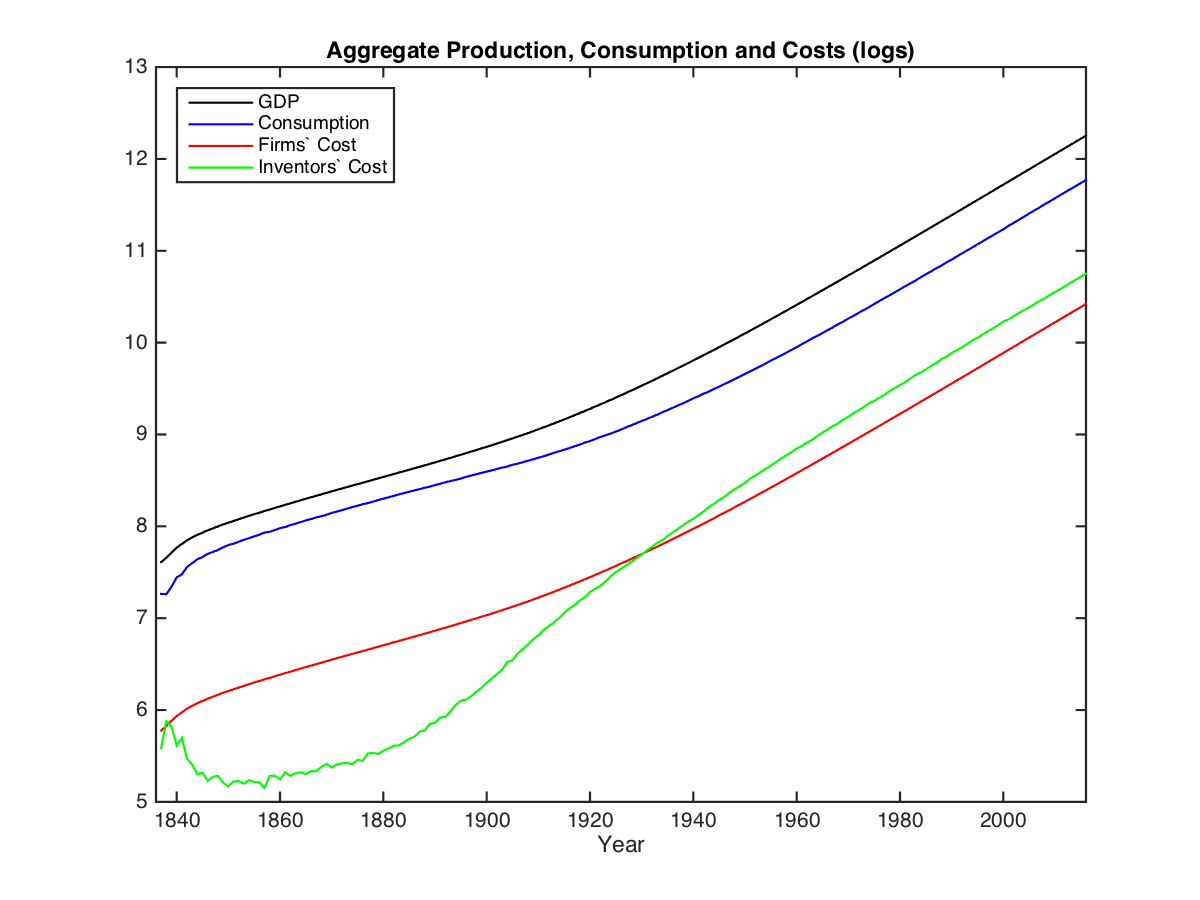
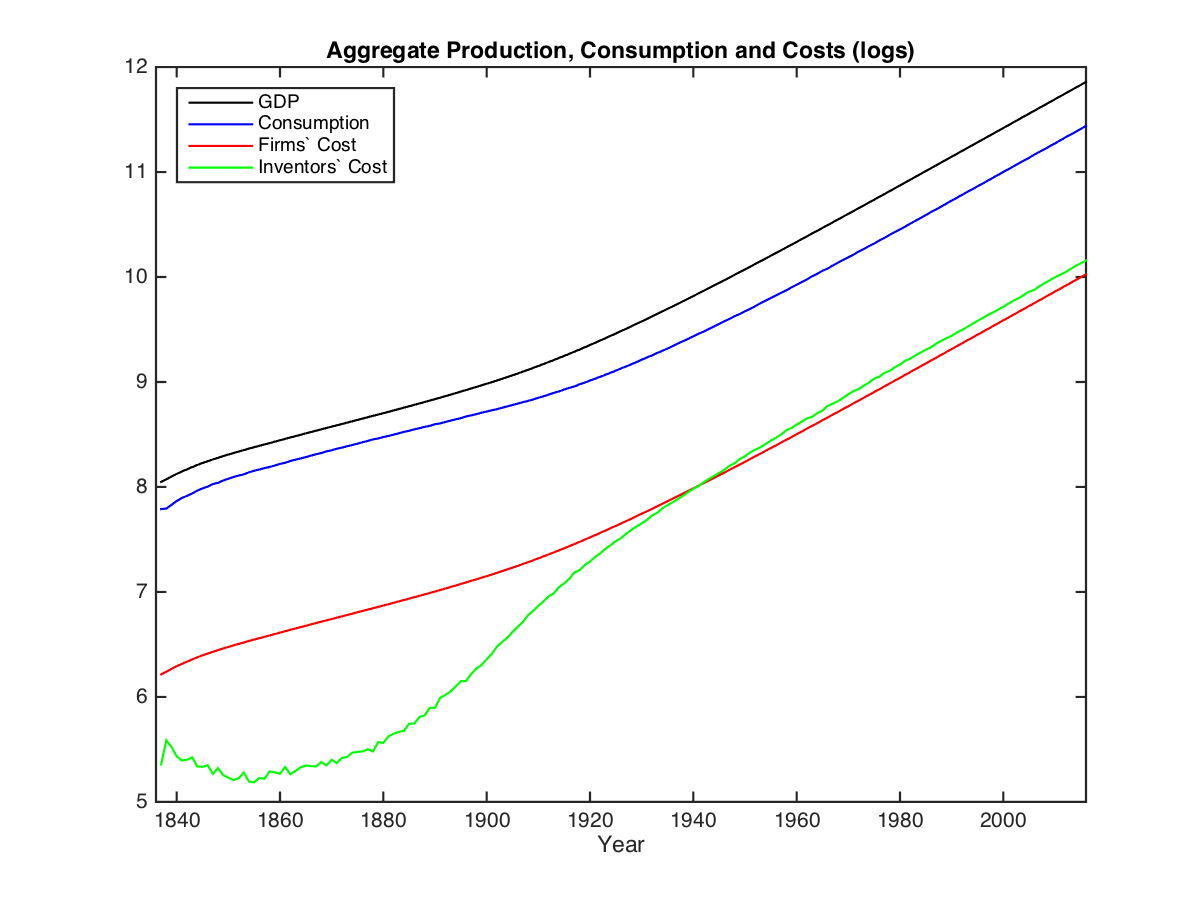
updates to parameters

diff --git a/simulations/simulate_model/tex_files/moments_table.tex b/simulations/simulate_model/tex_files/moments_table.tex
@@ -1,17 +1,17 @@
 \begin{tabular}{|l|l|l|}
 \hline
 &\textbf{Data}&\textbf{Model}\\\hline
-\textbf{new tech 1850}&0.4&0.095132\\\hline
-\textbf{new comb 1850}&0.25&0.27981\\\hline
-\textbf{reuse 1850}&0.35&0.62506\\\hline
-\textbf{new tech 1900}&0.03&0.032952\\\hline
-\textbf{new comb 1900}&0.45&0.40219\\\hline
-\textbf{reuse 1900}&0.52&0.56486\\\hline
-\textbf{new tech 1950}&0.02&0.02515\\\hline
-\textbf{new comb 1950}&0.75&0.7685\\\hline
-\textbf{reuse 1950}&0.33&0.20635\\\hline
-\textbf{new tech 2000}&0.01&0.026435\\\hline
-\textbf{new comb 2000}&0.8&0.84388\\\hline
-\textbf{reuse 2000}&0.19&0.12969\\\hline
-\textbf{reuse peak}&0.55&0.6573\\\hline
+\textbf{new tech 1850}&0.4&0.10921\\\hline
+\textbf{new comb 1850}&0.25&0.25847\\\hline
+\textbf{reuse 1850}&0.35&0.63232\\\hline
+\textbf{new tech 1900}&0.03&0.036378\\\hline
+\textbf{new comb 1900}&0.45&0.43172\\\hline
+\textbf{reuse 1900}&0.52&0.5319\\\hline
+\textbf{new tech 1950}&0.02&0.029526\\\hline
+\textbf{new comb 1950}&0.75&0.76079\\\hline
+\textbf{reuse 1950}&0.33&0.20968\\\hline
+\textbf{new tech 2000}&0.01&0.0297\\\hline
+\textbf{new comb 2000}&0.8&0.80735\\\hline
+\textbf{reuse 2000}&0.19&0.16295\\\hline
+\textbf{reuse peak}&0.55&0.65927\\\hline
 \end{tabular}

diff --git a/simulations/simulate_model/simul4.m b/simulations/simulate_model/simul4.m
@@ -8,13 +8,13 @@ feature accel on
 cd('/Users/alexandresollaci/Documents/UChicago/RA/Combinatorial growth/combinatorial_growth/simulations/simulate_model/')
 rng(10)
 etaH = 0.15; % NT step size
-etaM = 0.075; % NC step size
+etaM = 0.1; % NC step size
 etaL = 0; % Refinement step size
 ttau = 500; % shape parameter for ideas distribution
-phi = 1.05;
-llambda = 1.5; % alpha (cost) has weibull distribution with scale parameter lambda ...
+phi = 1.075;
+llambda = 2; % alpha (cost) has weibull distribution with scale parameter lambda ...
 kkappa = 2;  % and shape parameter kappa
-xxi = 175;   % 1/xi is the fraction of feasible combinations
+xxi = 5;   % 1/xi is the fraction of feasible combinations
 
 zeta = 0.01; % probability technology line shuts down
 
@@ -42,7 +42,7 @@ Mmat(1:M0,5) = ones(M0,1); % technologies are born hot
 
 Tmax = 180;
 
-nu = 2; % chosen so that nrof firms makes avg growth rate is approximately 2%
+nu = 3.1; % chosen so that nrof firms makes avg growth rate is approximately 2%
 nrofinv = exp(6); % number of inventors, chosen to match initial number of patents
 nroffirms = round(nu*nrofinv); 
 g1 = 0.066; % initial growth rate of patent numbers

diff --git a/simulations/welfare_counterfactuals/optimal_subsidy_zeta.m b/simulations/welfare_counterfactuals/optimal_subsidy_zeta.m
@@ -50,7 +50,7 @@ Welfare_plain = result_plain.Welfare;
 Welfare_log_plain = result_plain.Welfare_log;
 
 %% Run simulation with subsidy
-subsidy_vals = [0.01, 0.03, 0.05, 0.1, 0.2, 0.3, 0.4];
+subsidy_vals = [0.01, 0.02, 0.03, 0.04, linspace(0.05,1,20)];
 subs_len = length(subsidy_vals);
 subsidy_subs = [subsidy_vals', zeros(subs_len,1)]; % ; zeros(subs_len,1), subsidy_vals'];
 
